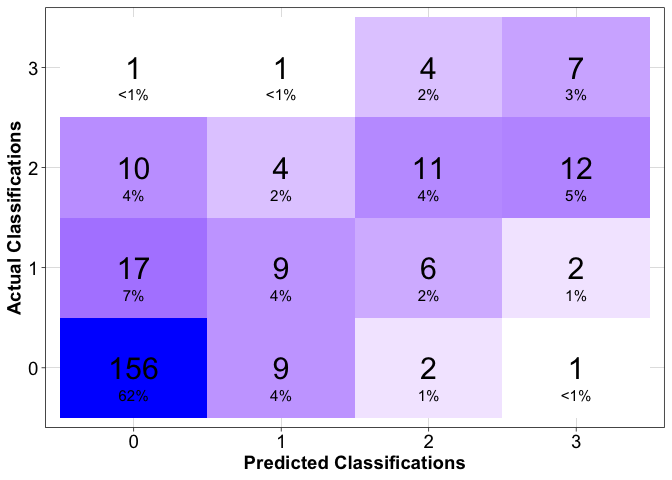
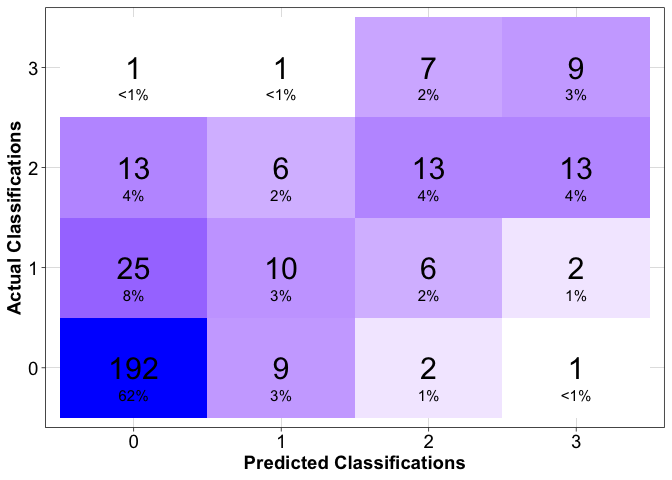
New predictions 24 June 2022; README updated

diff --git a/README.md b/README.md
@@ -71,7 +71,7 @@ predictions <- read_forecast()
 glimpse(predictions)
 ```
 
-    ## Rows: 318
+    ## Rows: 379
     ## Columns: 18
     ## $ version             <chr> "v0.1.3", "v0.1.3", "v0.1.3", "v0.1.3", "v0.1.3", …
     ## $ ensemble_n          <dbl> 10, 10, 10, 10, 10, 10, 10, 10, 10, 10, 10, 10, 10…
@@ -104,4 +104,4 @@ glimpse(predictions)
 
 ### Last Updated
 
-    ## [1] "2022-06-17"
+    ## [1] "2022-06-24"
